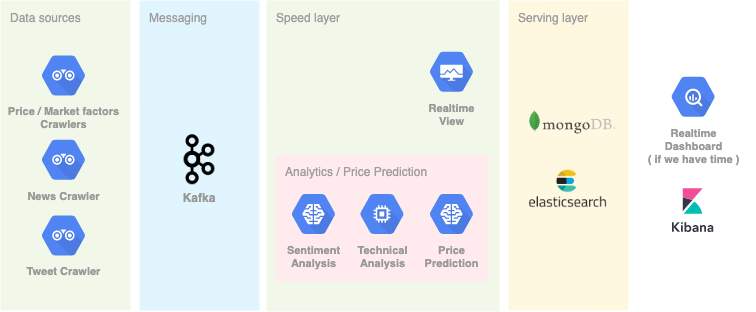
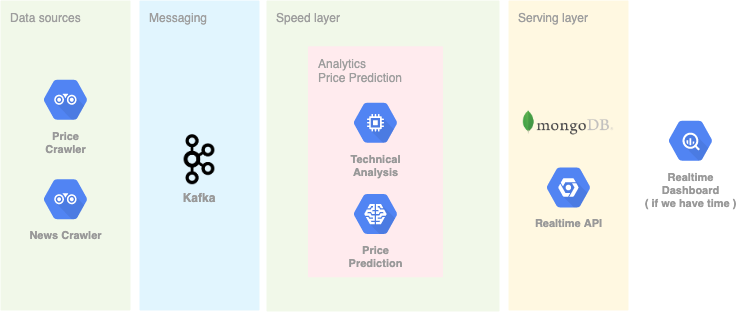
finalize readme

diff --git a/README.md b/README.md
@@ -3,30 +3,82 @@
 This repository contains code and documentation for our project in DAD course WS2021
 
 ## Table of contents
-- [GABI - Forex](#gabi---forex)
-    + [Architecture](#architecture)
-    + [Development](#development)
-    + [Preparation](#preparation)
-      - [Price crawler](#price-crawler)
-    + [Deployment](#deployment)
-
+- [Architecture](#architecture)
+    + [Overview](#overview)
+    + [The pipeline](#the-pipeline)
+      - [Price Crawler](#price-crawler)
+      - [News Crawler](#news-crawler)
+      - [Kafka](#kafka)
+      - [Technical Analysis and Price Prediction](#technical-analysis-and-price-prediction)
+      - [Realtime API](#realtime-api)
+      - [Realtime Dashboard](#realtime-dashboard)
+- [Preparation](#preparation)
+  * [Price crawler](#price-crawler)
+  * [News crawler](#news-crawler)
+- [Deployment](#deployment)
+    + [1. Services](#1-services)
+    + [2. Frontend](#2-frontend)
+    + [3. Spark](#3-spark)
 ## Architecture
+#### Overview
 ![](docs/arch.png)
 
-## Development
-We use `docker-compose` for local development environment
-```bash
-cd deployment
-docker-compose up
-```
+#### The pipeline
+##### Price Crawler
+The price data such as tick data and candle data are collected by the `Price Crawler`.
+Those realtime data are sent to Kafka.
+##### News Crawler
+There are 2 implemented news crawlers: DailyFX (dailyfx.com) and Reuters (reuters.com).
+The news crawler collect the latest news and sent them to Kafka.   
+##### Kafka
+The topics are named in the following format: `{project}.{subject}.{version}`. For example: `dad.candle.0`  
+With this naming strategy, 
+we can adapt structural changes and migrate with less effort by incrementing the version and support multiple versions at the same time.
+##### Technical Analysis and Price Prediction
+The spark jobs calculate the technical indicators such as Relative Strength Index (RSI), Bollinger Bands, etc. and try to predict the close price of the next candle.
+The predictions will be sent back to Kafka again.
+##### Realtime API
+This component offers the API for the frontend to access the data in MongoDB and to receive updates in realtime. 
 
+##### Realtime Dashboard
+This is the frontend, where you can interact with the system and see it in action. The data are updated in realtime 
 ## Preparation
-
 ### Price crawler
 1. You need a FXCM Demo account. You can apply for a demo account here: https://www.fxcm.com/uk/forex-trading-demo/
 2. Generate a persistent token. Go to https://tradingstation.fxcm.com, login, then click on `User Account > Token Management`.
 3. Set your token as environment variable `FXCM_TOKEN` in `deployment/docker-compose.yml`
 
+### News crawler
+In the current `deployment/docker-compose.yml` there is only one active news crawler, namely the DailyFX crawler. You can also 
+start the Reuters crawler by using the `reuters.py` file.
 
 ## Deployment
-WIP.
+#### 1. Services
+To spin up all services, run the following commands:
+```bash
+cd deployment
+docker-compose up
+```
+#### 2. Frontend
+If you already have a build of the frontend, you can serve it however you like (e.g. using a nginx container).  
+Otherwise, you can run the following commands to bring the frontend up in development environment:
+```bash
+cd services/realtime-ui
+npm start
+```
+
+#### 3. Spark
+In order to run the spark job for analytics and price prediction, you need to submit them.
+Here is an example of submitting a spark job for price prediction with period "m1".
+Note that the `--network` parameter may be differ.
+```bash
+cd services/sparkjobs
+
+docker run -v $(pwd):/app \
+--network=deployment_gabi \
+deployment_sparkmaster /spark/bin/spark-submit \
+ --packages org.apache.spark:spark-sql-kafka-0-10_2.12:3.0.1 \
+ --conf spark.executorEnv.frameName=m1 \
+ --files /app/models/EURUSD_m1.h5,/app/models/scaler_EURUSD_m1.pkl /app/price.py
+```
+
